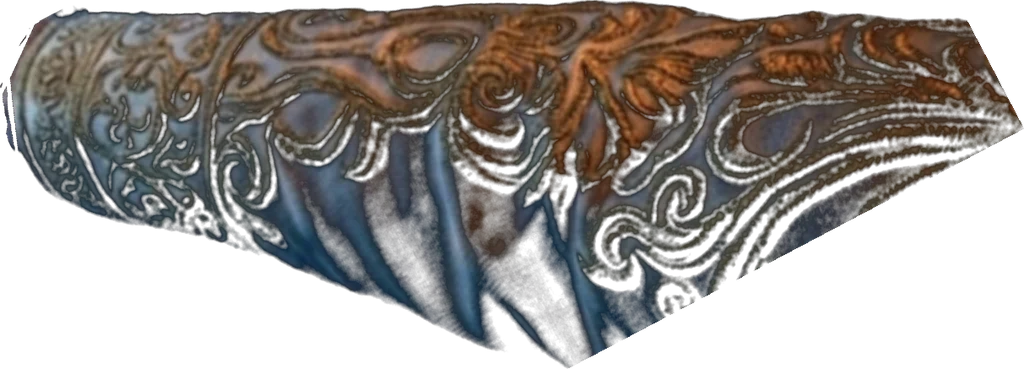
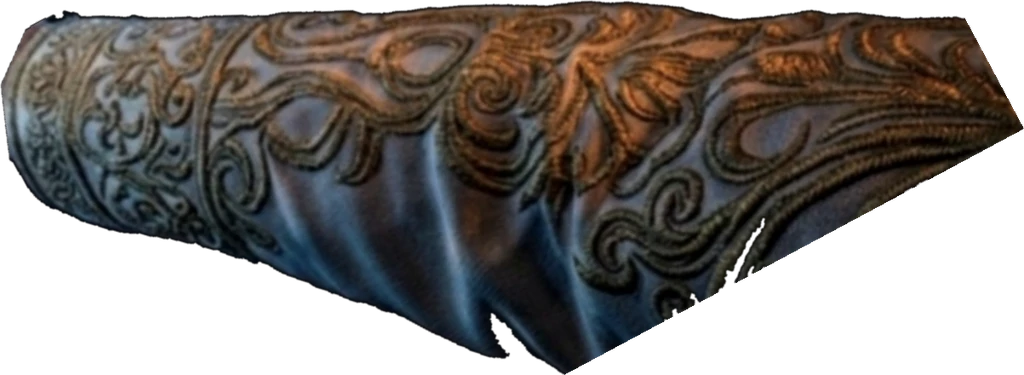
VR Wizard: clean cut-outs and true sleeve proportions
Claude-Session: https://claude.ai/code/session_01BYRcrJ2U1VhqGno3W5mhtV

diff --git a/index.html b/index.html
@@ -490,7 +490,7 @@ const POOLS={
 const D=new THREE.Object3D();D.rotation.order='YXZ';const TC=new THREE.Color();
 
 // ---------- sound
-const BUILD='20261125004517',V=u=>u+(u.indexOf('?')<0?'?':'&')+'v='+BUILD;
+const BUILD='20261125004745',V=u=>u+(u.indexOf('?')<0?'?':'&')+'v='+BUILD;
 let AC=null,musicOn=true,musicT=0,step=0,nb=null;const lastS={};
 function initAudio(){try{if(!AC){AC=new(window.AudioContext||window.webkitAudioContext)();const b=AC.createBuffer(1,AC.sampleRate,AC.sampleRate),d=b.getChannelData(0);for(let i=0;i<d.length;i++)d[i]=Math.random()*2-1;nb=b}if(AC.state==='suspended')AC.resume()}catch(e){AC=null}}
 function tone(f,d,type,v,f2,at){if(!AC)return;const t=at||AC.currentTime,o=AC.createOscillator(),g=AC.createGain();o.type=type||'square';o.frequency.setValueAtTime(f,t);if(f2)o.frequency.exponentialRampToValueAtTime(f2,t+d);g.gain.setValueAtTime(v||.05,t);g.gain.exponentialRampToValueAtTime(.0001,t+d);o.connect(g);g.connect(AC.destination);o.start(t);o.stop(t+d+.02)}
@@ -1437,7 +1437,7 @@ function whMesh(name,w,h,ax,ay,order){const g=new THREE.PlaneGeometry(w,h);g.tra
 function faceBasis(pos,dir){p0.cam.getWorldPosition(_Z);_Z.sub(pos);if(_Z.lengthSq()<1e-6)_Z.set(0,0,1);_Z.normalize();_Y.copy(dir).addScaledVector(_Z,-dir.dot(_Z));if(_Y.lengthSq()<1e-6)_Y.set(0,1,0);_Y.normalize();_X.crossVectors(_Y,_Z).normalize();_m4.makeBasis(_X,_Y,_Z);return _m4}
 function placeSleeve(m,wrist,shoulder,rightArm){const L=clamp(wrist.distanceTo(shoulder),.22,.5);_f.copy(rightArm?shoulder:wrist).sub(rightArm?wrist:shoulder);
  p0.cam.getWorldPosition(_Z);_hd.copy(wrist).add(shoulder).multiplyScalar(.5);_Z.sub(_hd).normalize();_X.copy(_f).addScaledVector(_Z,-_f.dot(_Z));if(_X.lengthSq()<1e-6)_X.set(1,0,0);_X.normalize();_Y.crossVectors(_Z,_X).normalize();
- _m4.makeBasis(_X,_Y,_Z);m.quaternion.setFromRotationMatrix(_m4);m.position.copy(wrist);m.scale.set(L,L*.17,1);m.visible=true}
+ _m4.makeBasis(_X,_Y,_Z);m.quaternion.setFromRotationMatrix(_m4);m.position.copy(wrist);m.scale.set(L,L*.366,1);m.visible=true}
 function wizHandsTick(p){p0=p;if(!WH.hand){WH.hand=whMesh('vr_hand_r',WHD.hand.w,WHD.hand.h,.6,.86,986);WH.staff=whMesh('vr_staff_l',WHD.staff.w,WHD.staff.h,.55,.74,986);
   const sg=(name,right)=>{const g=new THREE.PlaneGeometry(1,1);g.translate(right?.5:-.5,0,0);const m=new THREE.Mesh(g,new THREE.MeshBasicMaterial({map:vrTex(name),transparent:true,alphaTest:.05,side:THREE.DoubleSide,fog:false}));m.frustumCulled=false;m.renderOrder=984;scene.add(m);return m};
   WH.sr=sg('vr_sleeve_r',true);WH.sl=sg('vr_sleeve_l',false)}
